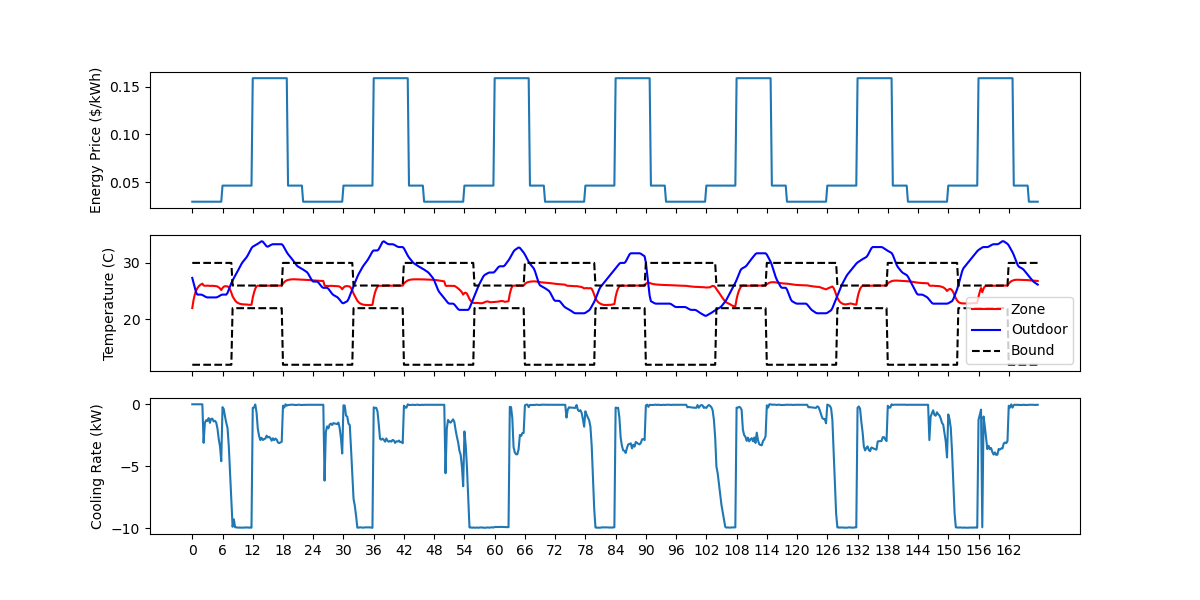
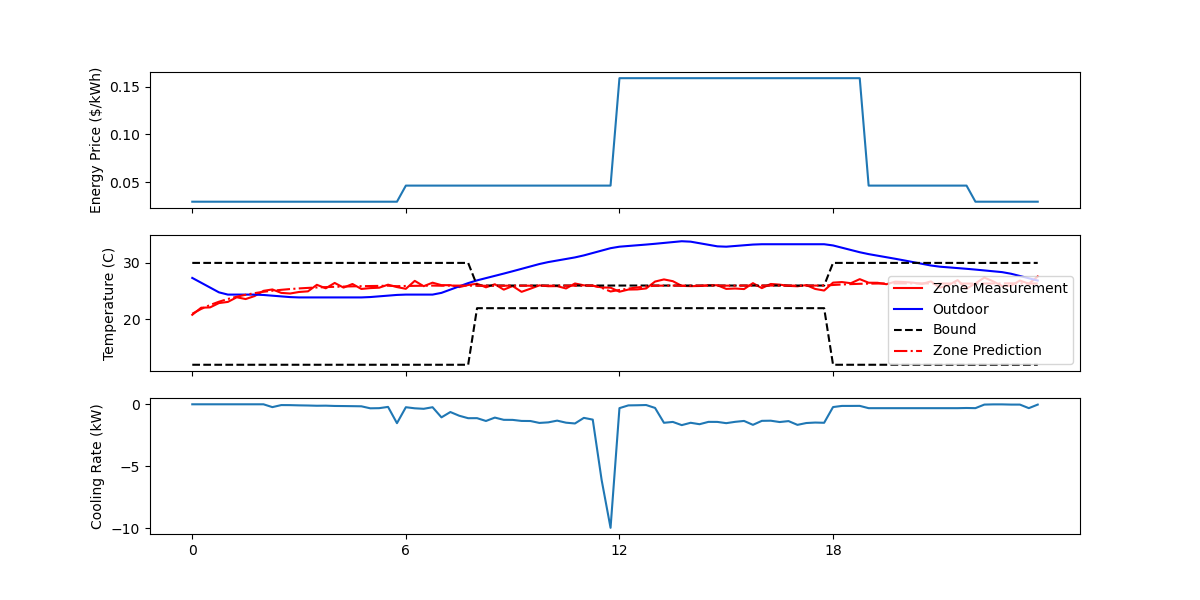
update mpc with kalman filter

diff --git a/resources/tutorials/jax/optimal_control_mpc_jit_kmf.py b/resources/tutorials/jax/optimal_control_mpc_jit_kmf.py
@@ -62,6 +62,7 @@ class MPC():
     def step(self, disturbance):
         """
         step forward in MPC
+
         :param state: initial state for state-space model
         :type state: jny.numpy (n,)
         :param ts: start time
@@ -97,7 +98,7 @@ class MPC():
         # call optimizer to minimize loss
         lr = 0.01
         tolerance = 1e-06
-        n_epochs = 5000
+        n_epochs = 10000
         optimizer = optax.adamw(learning_rate = lr)
         #u0 = jnp.zeros([self.PH, 1])
         u0 = self.u_start
@@ -285,6 +286,77 @@ def _fit_step(params, opt_state, state, ts, te, dt, disturbance, T_ub_ph, T_lb_p
 
     return params, opt_state, u_ph, loss, grads
 
+# define jitt4ed kalman filter
+@jit
+def continuous_kmf(t, xP, A, B, C, Q, R, u, z):
+
+    # extract states
+    x, P = xP
+    
+    # eq 3.22 of Ref [1]
+    K = P @ C.transpose() @ jnp.linalg.inv(R)
+
+    # eq 3.21 of Ref [1]
+    dPdt = (
+        A @ P
+        + P @ A.transpose()
+        + Q
+        - P @ C.transpose() @ jnp.linalg.inv(R) @ C @ P
+    )
+
+    # eq 3.23 of Ref [1]
+    dxdt = A @ x + B @ u + K @ (z - C @ x)
+    #jax.debug.print("{x}", x=x)
+    #jax.debug.print("{dxdt}", dxdt=A@x + B@u)
+    #jax.debug.print("{K}", K=K)
+    #jax.debug.print("{e}", e=z - C@x)
+    #jax.debug.print("{dxdt}", dxdt=dxdt)
+    return (dxdt, dPdt)
+
+# Using for loop to update the disturbance every time step
+# forward function that simulates ODE given time period and inputs
+@Partial(jit, static_argnums=(0, 1, 2, 3, 5,))
+def forward_kmf(func, ts, te, dt, xP0, solver, args):
+    # unpack args:
+    # A, B, C: system dynamics coefficents
+    # Q, R: variance of modeling errors and measurement noise
+    # u: control inputs and disturbances
+    # z: measurements
+    A, B, C, Q, R, u, z = args
+
+    # ode formulation
+    term = ODETerm(func)
+
+    # initial step
+    t = ts
+    tnext = t + dt
+    u0 = u[0, :]
+    z0 = z[0, :]
+    args = (A, B, C, Q, R, u0, z0)
+    
+    # helper function
+    def step_at_t(carryover, t, term, dt, te, A, B, C, Q, R, u, z):
+        # the lax.scannable function to computer ODE/DAE systems
+        xP, state, i = carryover
+        args = (A, B, C, Q, R, u[i, :], z[i, :])
+        tnext = jnp.minimum(t + dt, te)
+
+        xPnext, _, _, state, _ = solver.step(
+            term, t, tnext, xP, args, state, made_jump=False)
+        i += 1
+
+        return (xPnext, state, i), xP
+    
+    # main loop
+    state0 = solver.init(term, t, tnext, xP0, args)
+    i = 0
+    carryover_init = (xP0, state0, i)
+    step_func = Partial(step_at_t, term=term, dt=dt, te=te, A=A, B=B, C=C, Q=Q, R=R, u=u, z=z)
+    time_steps = jnp.arange(ts, te+1, dt)
+    carryover_final, xP_all = lax.scan(
+        step_func, init=carryover_init, xs=time_steps)
+
+    return time_steps, xP_all
 
 if __name__ == '__main__':
     print(jax.devices())
@@ -295,7 +367,7 @@ if __name__ == '__main__':
     key = random.PRNGKey(44)
 
     # MPC setting
-    PH = 24
+    PH = 48
     CH = 1
     dt = 900
     nsteps_per_hour = int(3600 / dt)
@@ -315,7 +387,7 @@ if __name__ == '__main__':
 
     # Experiment settings
     ts = 195*24*3600
-    ndays = 1
+    ndays = 7
     te = ndays*24*3600 + ts
 
     # get predictor
@@ -327,7 +399,7 @@ if __name__ == '__main__':
     # get zone model
     Cai, Cwe, Cwi, Re, Ri, Rw, Rg = predictor['zone_model']
     A, B, C, D = get_ABCD(Cai, Cwe, Cwi, Re, Ri, Rw, Rg)
-    
+
     # set energy price schedule
     price = jnp.array([0.02987, 0.02987, 0.02987, 0.02987,
                0.02987, 0.02987, 0.04667, 0.04667,
@@ -340,12 +412,20 @@ if __name__ == '__main__':
     mpc = MPC(PH, CH, dt, predictor, price)
     print(mpc.u_start.shape)
 
-    # initial state for rc zone
-    state = jnp.array([20, 27.21, 26.76])
-    
+    # initialize kalman filter estimator
+    kmf = lambda t, xP, args: continuous_kmf(t, xP, *args) 
+    solver = Euler()
+
+    # initial guesses for kalman filter
+    state = jnp.array([20., 35., 26.])
+    P0 = jnp.diag(jnp.ones((3,)))
+    xP0 = (state, P0)
+    Q = jnp.diag(jnp.ones((3,)))*1e-04
+    R = jnp.diag(jnp.ones((1,)))*50000.
+
     # initialize random seeds for noises in measurements
     keys = random.split(key, int((te-ts)/dt))
-    mu_noise = 0.2
+    mu_noise = 0.5
 
     # initialize output 
     u_opt  = []
@@ -355,11 +435,11 @@ if __name__ == '__main__':
 
     # main loop
     for i, t in enumerate(range(ts, te, dt)):
-        
+
         # get disturbance
         dist_t_ph = get_disturbance_ph(dist, t, PH, dt)
         dist_t_ph = jnp.array(dist_t_ph.values)
-
+                
         # set mpc time
         mpc.set_time(t)
 
@@ -390,6 +470,17 @@ if __name__ == '__main__':
         Tz_opt_pred.append(float(state[0]))
         Tz_opt.append(float(state[0] + mu_noise*random.normal(keys[i])))
         To_opt.append(float(dist_t[0,0]))
+
+        # apply kalman filter
+        ui = dist_t
+        zi = jnp.array([Tz_opt[-1]]).reshape(-1,1)
+        tkmf,xP = forward_kmf(kmf, t, t+dt, dt, xP0, Euler(), (A,B,C,Q,R,ui,zi))
+
+        # for next step
+        state = xP[0][-1,:] # estimated state for MPC next step
+        print(state)
+        P = xP[1][-1,:,:]
+        xP0 = (state, P)
 
     ### POST-PROCESS
     # plot some figures
@@ -433,7 +524,7 @@ if __name__ == '__main__':
     plt.plot(u_opt)
     plt.ylabel("Cooling Rate (kW)")
     plt.xticks(xticks, xticklabels)
-    plt.savefig("mpc_"+str(PH)+".png")
+    plt.savefig("mpc_"+str(PH)+"_kmf.png")
 
     # save some kpis
     energy_cost = jnp.sum(price_dt.flatten()*jnp.abs(jnp.array(u_opt))*dt/3600)
@@ -449,5 +540,5 @@ if __name__ == '__main__':
     kpi['dT_max'] = float(dT_max)
     kpi['dTh'] = float(dTh)
 
-    with open("mpc_kpi_"+str(PH)+".json", 'w') as file:
+    with open("mpc_kpi_"+str(PH)+"_kmf.json", 'w') as file:
         json.dump(kpi, file)
